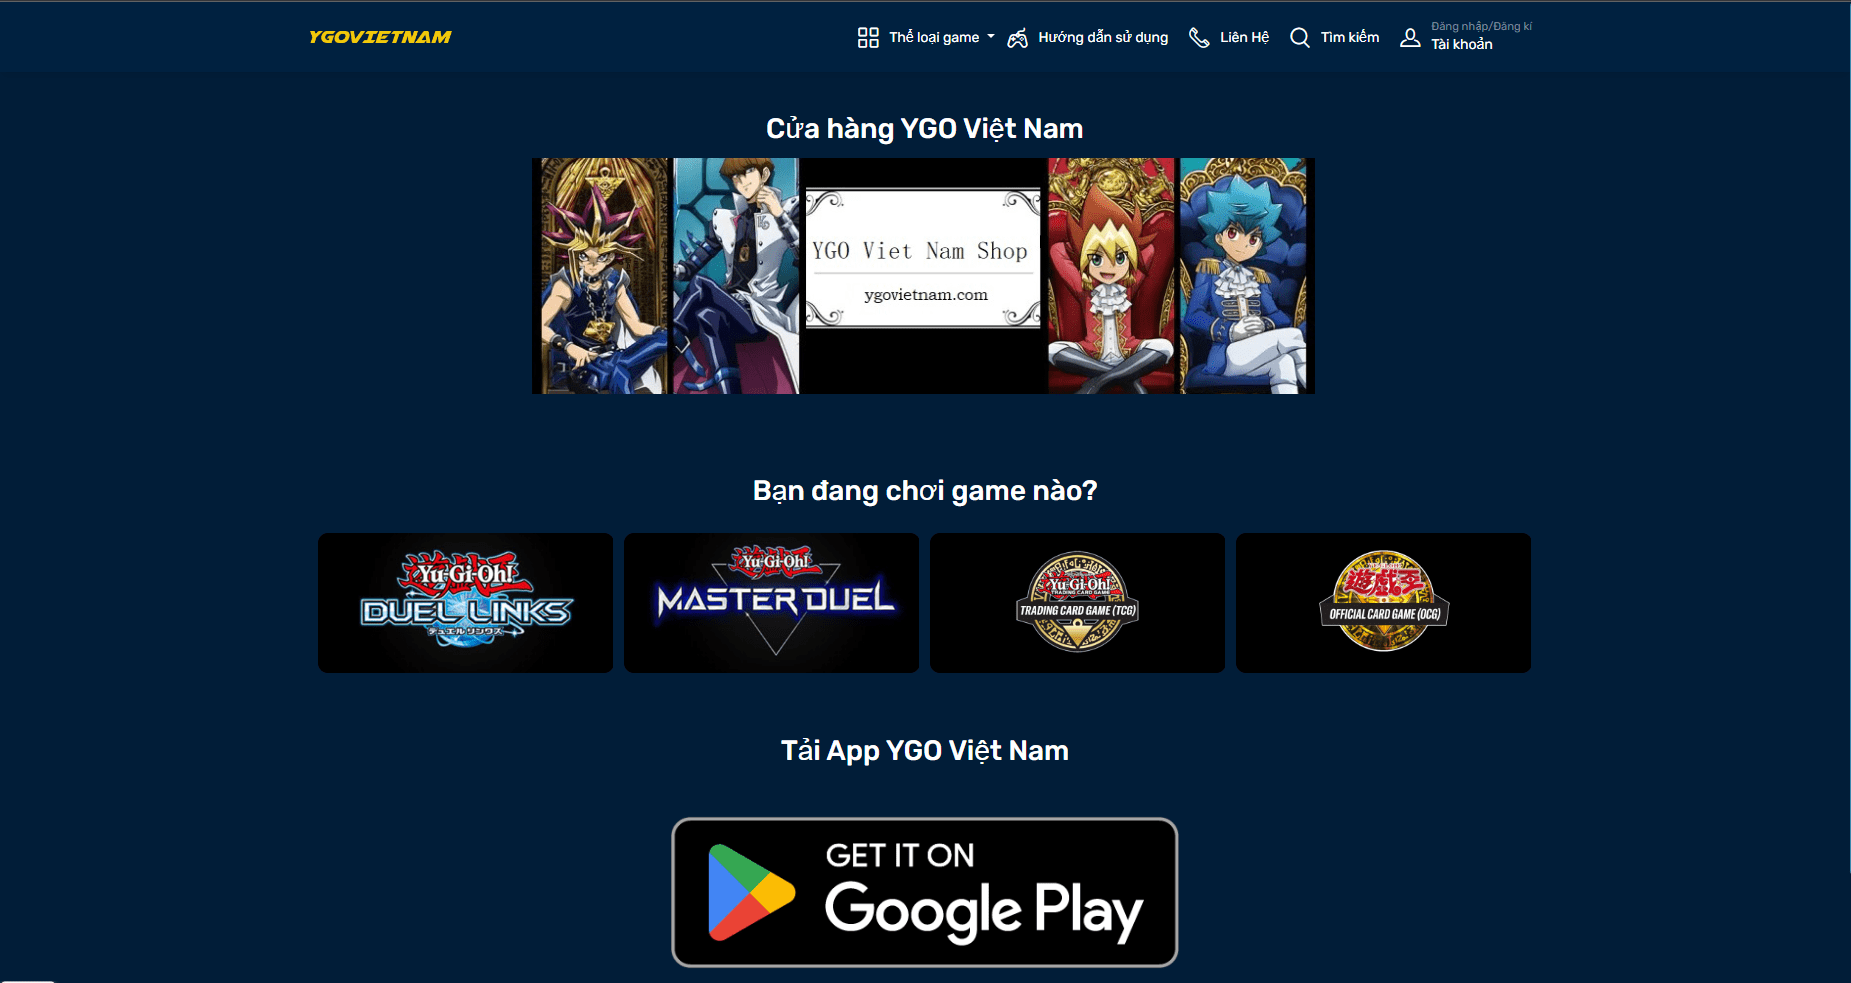
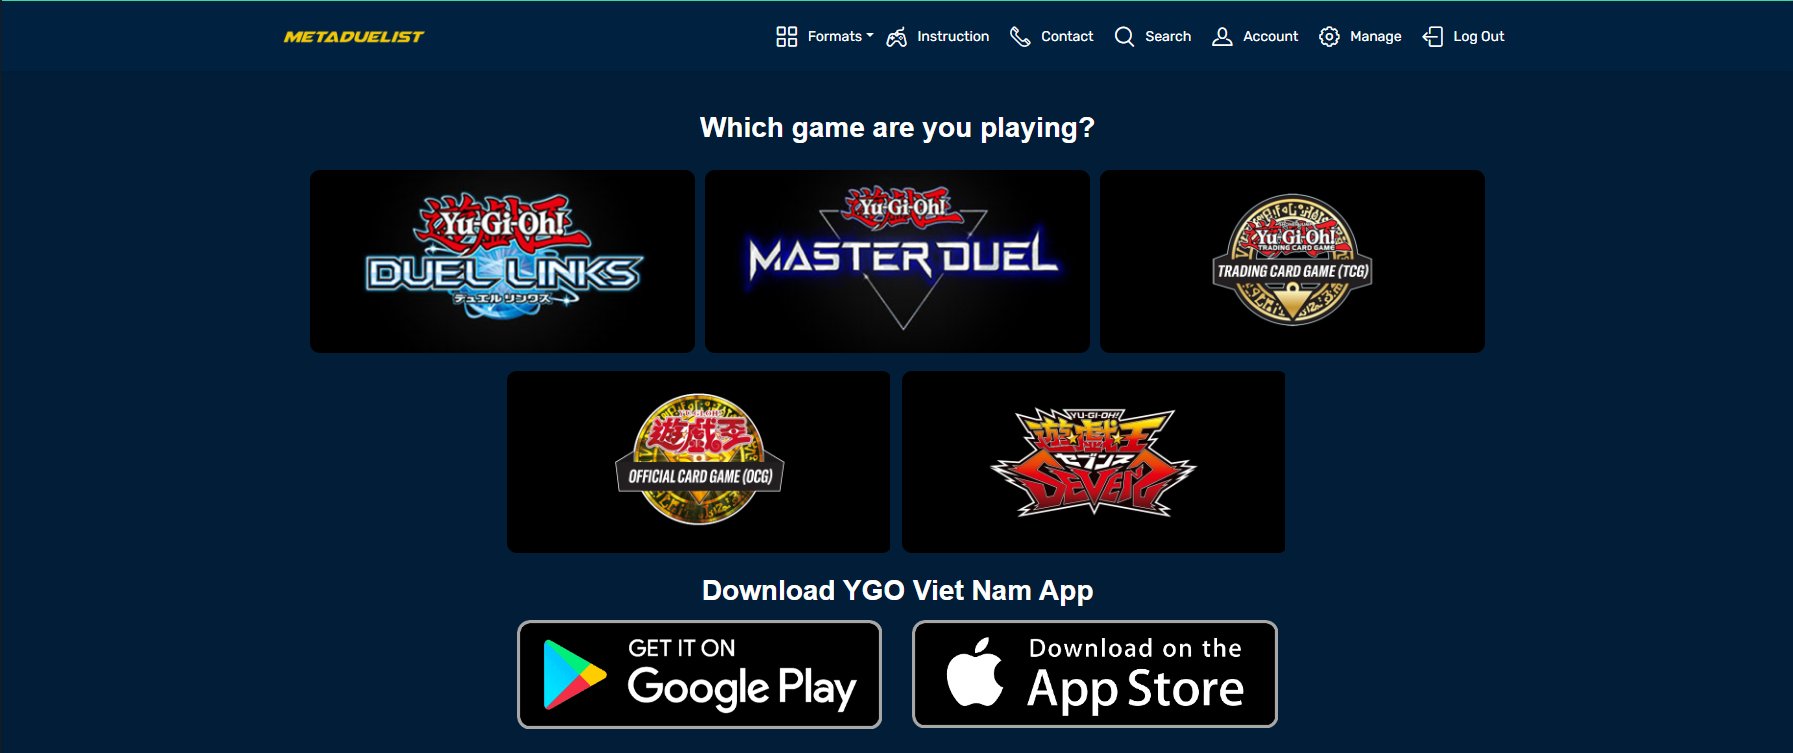
update meta duelist

diff --git a/components/works/Works.jsx b/components/works/Works.jsx
@@ -23,14 +23,14 @@ const Works = () => {
     {
       id: "1",
       tag: "Web Application",
-      title: "YGO Viet Nam",
+      title: "Meta Duelist",
       img: "/images/work_images/ygovietnam.png",
       imgSmall: "/images/work_images/ygovietnam.png",
       bg: "#FEFAF0",
       client: "Themeforest",
-      langages: "Blazor",
-      link: "https://ygovietnam.com/",
-      linkText: "ygovietnam.com",
+      langages: "C#, Blazor, MAUI",
+      link: "https://metaduelist.com/",
+      linkText: "metaduelist.com",
       github: "https://github.com/arthastheking113",
       githubText: "N/A (Private)",
       description:
@@ -196,8 +196,8 @@ const Works = () => {
               className="w-full md:h-[450px]  h-auto object-cover rounded-xl mt-6"
               src={singleData?.img}
               alt="blog details image"
-              width={620}
-              height={420}
+              width={1200}
+              height={900}
               loading="lazy"
             />
           </div>
